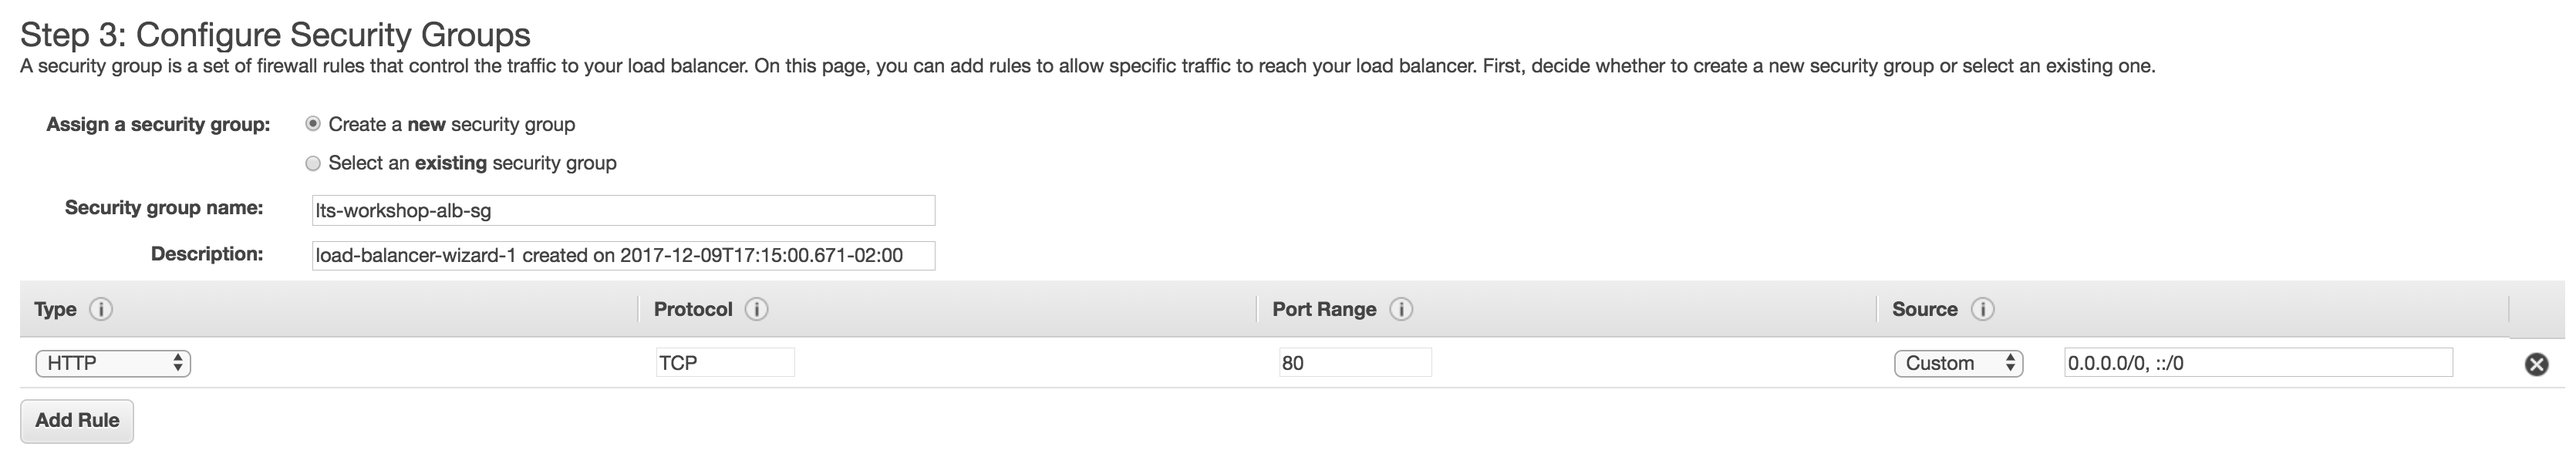
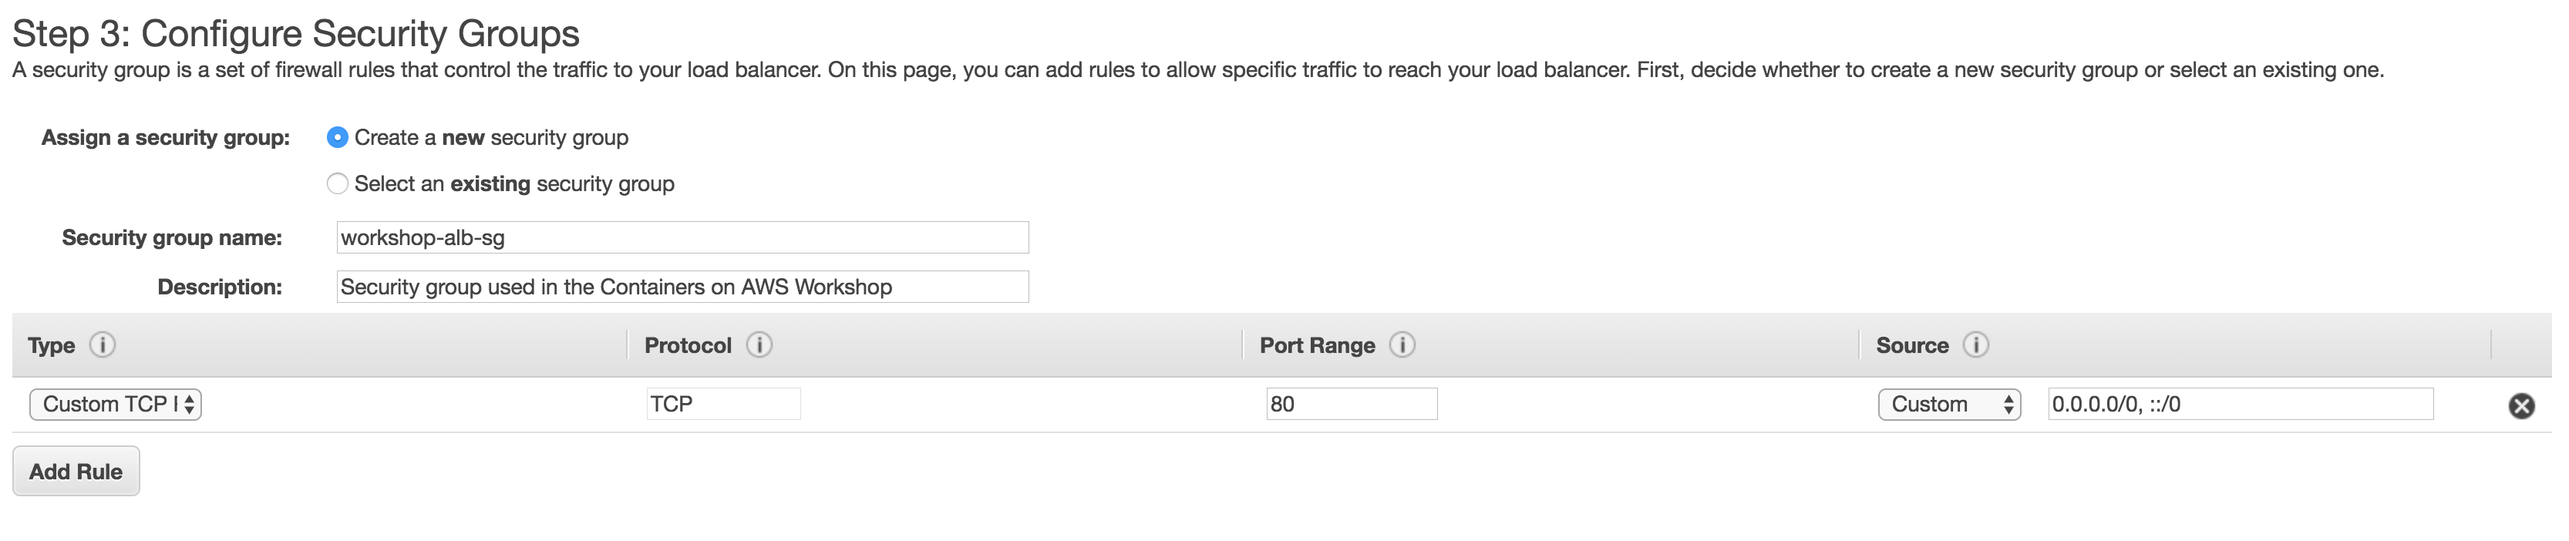
Deploy ECS Cluster content

diff --git a/04-DeployEcsCluster/README.md b/04-DeployEcsCluster/README.md
@@ -16,7 +16,7 @@
 
 ## 1. Tutorial overview
 
-This tutorial will guide you through the creation of an AWS ECS Cluster and the deployment of a container with a simple Python application created in the previous lab.
+This tutorial will guide you through the creation of an ECS Cluster and the deployment of the container with a simple Python application created in the previous lab.
 
 In order to run this tutorial, you must have completed the following steps:
 
@@ -26,7 +26,7 @@ In order to run this tutorial, you must have completed the following steps:
 
 ## 2. Creating the Cluster
 
-Once you've signed into your AWS account, navigate to the [ECS console](https://console.aws.amazon.com/ecs/home?region=us-east-1#/clusters). This URL will redirect you to the ECS interface on N. Virginia region. If this is your fist time using ECS, you will see the "*Clusters*" screen without any clusters in it:
+Once you've signed into your AWS account, navigate to the [ECS console](https://console.aws.amazon.com/ecs/home?region=us-east-1#/clusters). This URL will redirect you to the ECS interface on N. Virginia region. If this is your fist time using ECS, you will see the *Clusters* screen without any clusters in it:
 
 ![clusters screen](https://github.com/bemer/containers-on-aws-workshop/blob/master/04-DeployEcsCluster/images/clusters_screen.png)
 
@@ -34,19 +34,34 @@ Let's create our first ECS Cluster. Click in the button **Create cluster** and t
 
 ![cluster template](https://github.com/bemer/containers-on-aws-workshop/blob/master/04-DeployEcsCluster/images/cluster_template.png)
 
-You will then be asked to input information about your new cluster. Fill the fields in the *Configure cluster* screen. Your cluster should run preferably on private subnets. So please, select the subnets accordingly.
+You will then be asked to input information about your new cluster. In the *Configure cluster* screen, keep the default values to the fields, changing just these ones:
 
-For troubleshooting purposes, remember to select the correct keypair. It will enable you accessing the EC2 instances registered in the ECS cluster.
+### Configure cluster
+* Cluster name: `workshop-ecs-cluster`
+
+### Instance configuration
+* EC2 instance type: `t2.micro`
+
+### Networking
+* VPC: Select the VPC created in the [Create VPC tutorial](https://github.com/bemer/containers-on-aws-workshop/tree/master/03-CreateVPC)
+* Subnets: Select the `private` subnet in your VPC
+
+And them click in **Create**.
+
+>In this tutorial we are not covering the creation of a Key Pair to access your EC2 instances. If you want to access your instances for troubleshooting purposes or even to just see how the ECS agent works you will need to create a Key Pair and them select it in the `Key pair` option. You can see how to create a new Key Pair in [this link](https://docs.aws.amazon.com/AWSEC2/latest/UserGuide/ec2-key-pairs.html).
 
 Note that this wizard is also going to create a security group for you allowing access in the port 80 (TCP).
 
-Click in **Create**.
+After changing all these parameters and putting the needed information, click in the button **Create** in the end of the screen.
 
 When the creation process finishes, you will see the following screen:
 
 ![cluster created](https://github.com/bemer/containers-on-aws-workshop/blob/master/04-DeployEcsCluster/images/cluster_created.png)
 
-You can them click in the button **View Cluster** to see your cluster.
+You can them click in the button **View Cluster** to see your cluster. The ECS Cluster screen will be like this:
+
+![cluster screen](https://github.com/bemer/containers-on-aws-workshop/blob/master/04-DeployEcsCluster/images/cluster_screen.png)
+
 
 ## 3. Creating the ALB
 
@@ -54,31 +69,40 @@ Now that we've created our cluster, we need an [Application Load Balancer (ALB)]
 
 To create the ALB:
 
-Navigate to the **EC2 Service Console**, and select **Load Balancers** from the left-hand menu.  Choose **Create Load Balancer**:
+Navigate to the [EC2 Service Console](https://console.aws.amazon.com/ec2/v2/home?region=us-east-1), and select **Load Balancers** from the left-hand menu.  Click in **Create Load Balancer**. Inside the `Application Load Balancer`, click in **Create**:
 
 ![choose ALB](https://github.com/bemer/containers-on-aws-workshop/blob/master/04-DeployEcsCluster/images/select_alb.png)
 
-Name your ALB **lts-workshop** and add an HTTP listener on port 80:
+Name your ALB **alb-workshop** and add an HTTP listener on port 80:
 
 ![name ALB](https://github.com/bemer/containers-on-aws-workshop/blob/master/04-DeployEcsCluster/images/create_alb.png)
 
-> In a production environment, you should also have a secure listener on port 443.  This will require an SSL certificate, which can be obtained from [AWS Certificate Manager](https://aws.amazon.com/certificate-manager/), or from your registrar/any CA.  For the purposes of this demo, we will only create the insecure HTTP listener. DO NOT RUN THIS IN PRODUCTION.
+Next, select the VPC previously created and add at the private subnet. If you have multiple VPC, and you're not sure which VPC is the correct one, you can find its ID from the VPC console.
 
-Next, select your VPC and add at least two subnets for high availability.  Make sure to choose the VPC that we created with the ECS wizard.  If you have multiple VPC, and you're not sure which VPC is the correct one, you can find its ID from the VPC console.
+After adding the information about your VPC, click in **Next: Configure Security Settings**.
 
-![add VPC](https://github.com/bemer/containers-on-aws-workshop/blob/master/04-DeployEcsCluster/images/configure_alb.png)
+When clicking in next, you should see a message saying that your load balancer is not using any secure listener. We can just skip this screen, clicking in **Next: Configure Security Groups**.
 
-Next, add a security group.  Here, let's create a security group to be used by your ALB. Change the **Security group name** to `lts-workshop-alb-sg` and create a rule allowing all traffic in the port `80`:
+>NOTE: In a production environment, you should also have a secure listener on port 443.  This will require an SSL certificate, which can be obtained from [AWS Certificate Manager](https://aws.amazon.com/certificate-manager/), or from your registrar/any CA.  For the purposes of this workshop, we will only create the insecure HTTP listener. DO NOT RUN THIS IN PRODUCTION.
+
+Let's now create a security group to be used by your ALB. In the *Step 3: Configure Security Groups* screen, let's select the option `Create a new security group`. Change the **Security group name** to `workshop-alb-sg` and create a rule allowing all traffic in the port `80`:
 
 ![create alb security group](https://github.com/bemer/containers-on-aws-workshop/blob/master/04-DeployEcsCluster/images/create_alb_sg.png)
 
+Them, click in **Next: Configure Routing**.
 
-
-Choose the security group, and continue to the next step:  adding routing.  For this initial setup, we're just adding a dummy healthcheck on `/`.  We'll add specific healthchecks for our service endpoint when we register it with the ALB.
+During this initial setup, we're just adding a dummy health check on `/`.  We'll add specific health checks for our ECS service endpoint when registering it with the ALB. Let's change onlye the the **Name** to `dummy`:
 
 ![add routing](https://github.com/bemer/containers-on-aws-workshop/blob/master/04-DeployEcsCluster/images/configure_alb_routing.png)
 
-Finally, skip the "Register targets" step, and continue to review. If your values look correct, click **Create**.
+Click in **Next: Register Targets** and them in **Review**. If your values look correct, click **Create**:
+
+![alb creation](https://github.com/bemer/containers-on-aws-workshop/blob/master/04-DeployEcsCluster/images/alb_creation.png)
+
+
+
+# CONTINUAR DAQUI
+
 
 After creating your ALB, you need to update the security group rule so your ALB can access the EC2 instances where your containers will run. If you ran the ECS wizard to provision your cluster, you should have an existing group called something like **EC2ContainerService-lts-workshop-EcsSecurityGroup** listed under **VPC** > **Security Groups** - note that you can select your VPC in the top left corner of the VPC screen. Select your security group from the list, click in **Inbound** > **Edit** and add a rule to allow your ALB to access the port range for ECS (0-65535).  The final rules should look like this (note the ALB security group ID):
 
